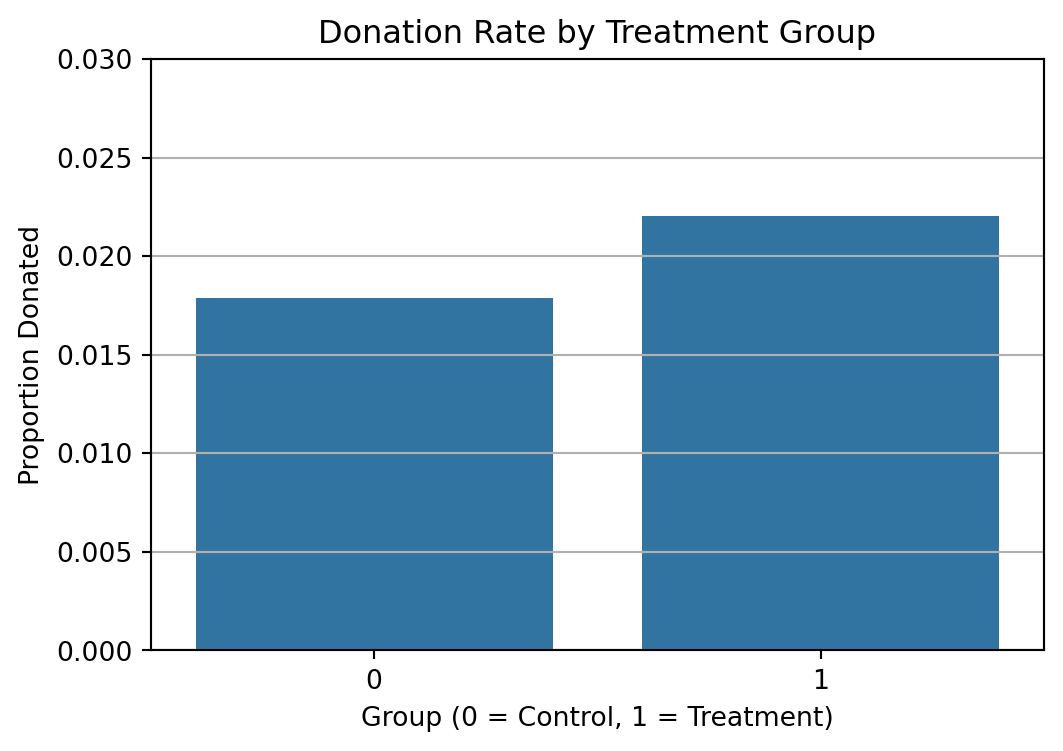
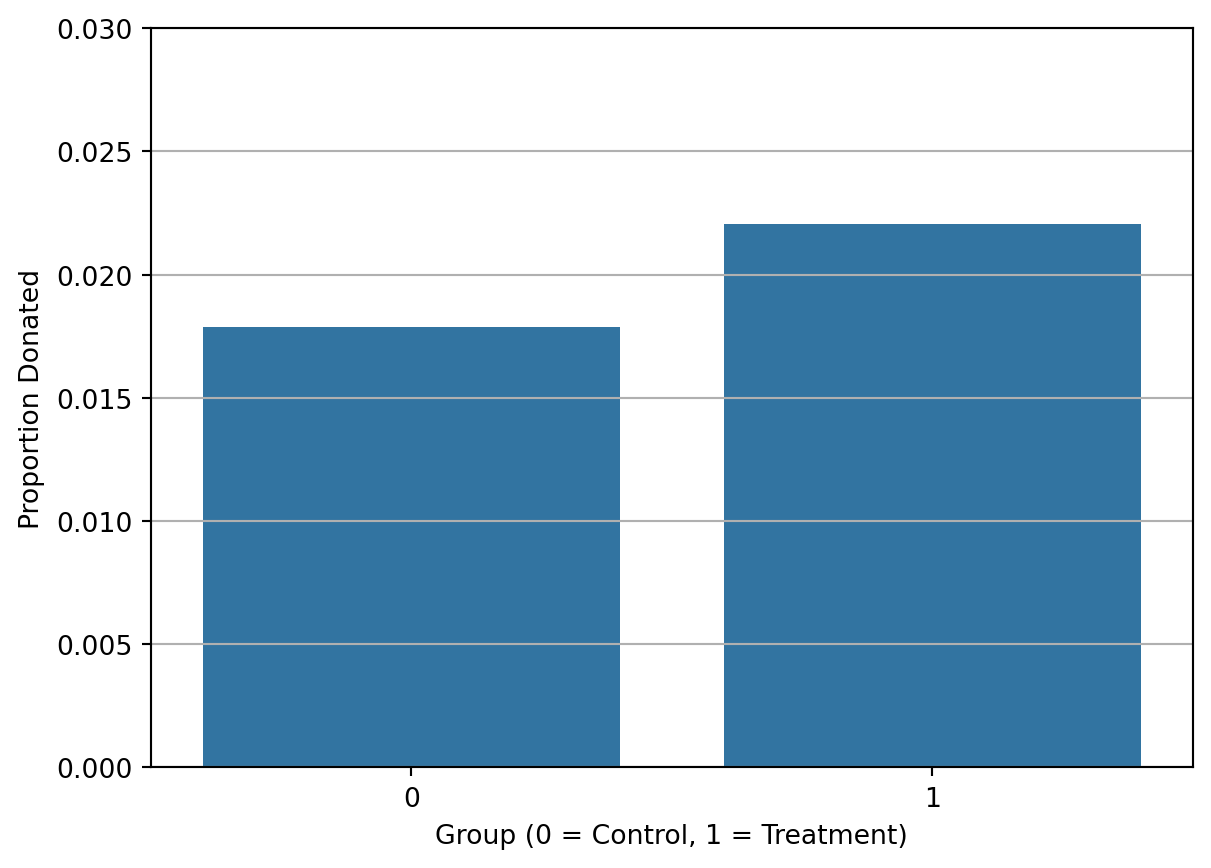
Updated Assignment 1.

Changed region(s): [[0.0, 0.0, 0.9934, 0.98]]

diff --git a/docs/blog/Assignment 1/Assignment_1.html b/docs/blog/Assignment 1/Assignment_1.html
@@ -191,6 +191,7 @@ ul.task-list li input[type="checkbox"] {
 <h2 class="anchored" data-anchor-id="data">Data</h2>
 <section id="description" class="level3">
 <h3 class="anchored" data-anchor-id="description">Description</h3>
+<p>To replicate Karlan and List’s findings, I first loaded their dataset and generated preliminary plots to get a feel for its contents. After displaying the first few rows to confirm the structure, I computed donation rates by treatment group and then prepared side-by-side visuals—bar plots for participation and histograms of donation amounts—to highlight the core outcome measures. These initial checks ensure that the data aligns with the original study’s composition before we proceed with more in-depth statistical testing and analysis.</p>
 <p>Detailed explanation of all the variables captured</p>
 <div class="callout callout-style-simple callout-note no-icon callout-titled">
 <div class="callout-header d-flex align-content-center" data-bs-toggle="collapse" data-bs-target=".callout-1-contents" aria-controls="callout-1" aria-expanded="false" aria-label="Toggle callout">
@@ -426,7 +427,7 @@ Variable Definitions
 </div>
 </div>
 <p>Preview of results from study</p>
-<div id="3baf74c2" class="cell" data-execution_count="1">
+<div id="0631d891" class="cell" data-execution_count="1">
 <div class="cell-output cell-output-display" data-execution_count="1">
 <div>
 
@@ -587,17 +588,19 @@ Variable Definitions
 </div>
 </div>
 <p>Bar plot – Proportion Who Donated by Treatment Group</p>
-<div id="f929f4b3" class="cell" data-execution_count="2">
+<div id="17371ac3" class="cell" data-fig-height="4" data-fig-width="6" data-execution_count="2">
 <div class="cell-output cell-output-display">
-<div>
+<div class="quarto-figure quarto-figure-center">
 <figure class="figure">
-<p><img src="Assignment_1_files/figure-html/cell-3-output-1.png" width="532" height="376" class="figure-img"></p>
+<p><img src="Assignment_1_files/figure-html/cell-3-output-1.png" width="606" height="434" class="figure-img"></p>
+<figcaption>Donation Rate by Treatment Group</figcaption>
 </figure>
 </div>
 </div>
 </div>
+<p>In this bar plot, each bar shows the proportion of people in the treatment or control group who made a donation, illustrating the immediate difference in participation rates.</p>
 <p>Histogram – Donation Amounts (Among Donors Only)</p>
-<div id="d04e5895" class="cell" data-execution_count="3">
+<div id="c3c8cdd3" class="cell" data-execution_count="3">
 <div class="cell-output cell-output-display">
 <div>
 <figure class="figure">
@@ -606,6 +609,7 @@ Variable Definitions
 </div>
 </div>
 </div>
+<p>Here, the histogram reveals the distribution of how much donors gave, helping us detect outliers, skewness, or other patterns in giving behavior.</p>
 </section>
 <section id="balance-test" class="level3">
 <h3 class="anchored" data-anchor-id="balance-test">Balance Test</h3>

diff --git a/docs/blog.html b/docs/blog.html
@@ -315,7 +315,7 @@ window.Quarto = {
 
 </div>
 
-<div class="quarto-post image-left" data-index="4" data-listing-date-sort="1745391600000" data-listing-file-modified-sort="1745378912096" data-listing-date-modified-sort="NaN" data-listing-reading-time-sort="21" data-listing-word-count-sort="4127">
+<div class="quarto-post image-left" data-index="4" data-listing-date-sort="1745391600000" data-listing-file-modified-sort="1745386952260" data-listing-date-modified-sort="NaN" data-listing-reading-time-sort="22" data-listing-word-count-sort="4272">
 
 <div class="thumbnail">
 <a href="./blog/Assignment 1/Assignment_1.html" class="no-external">
